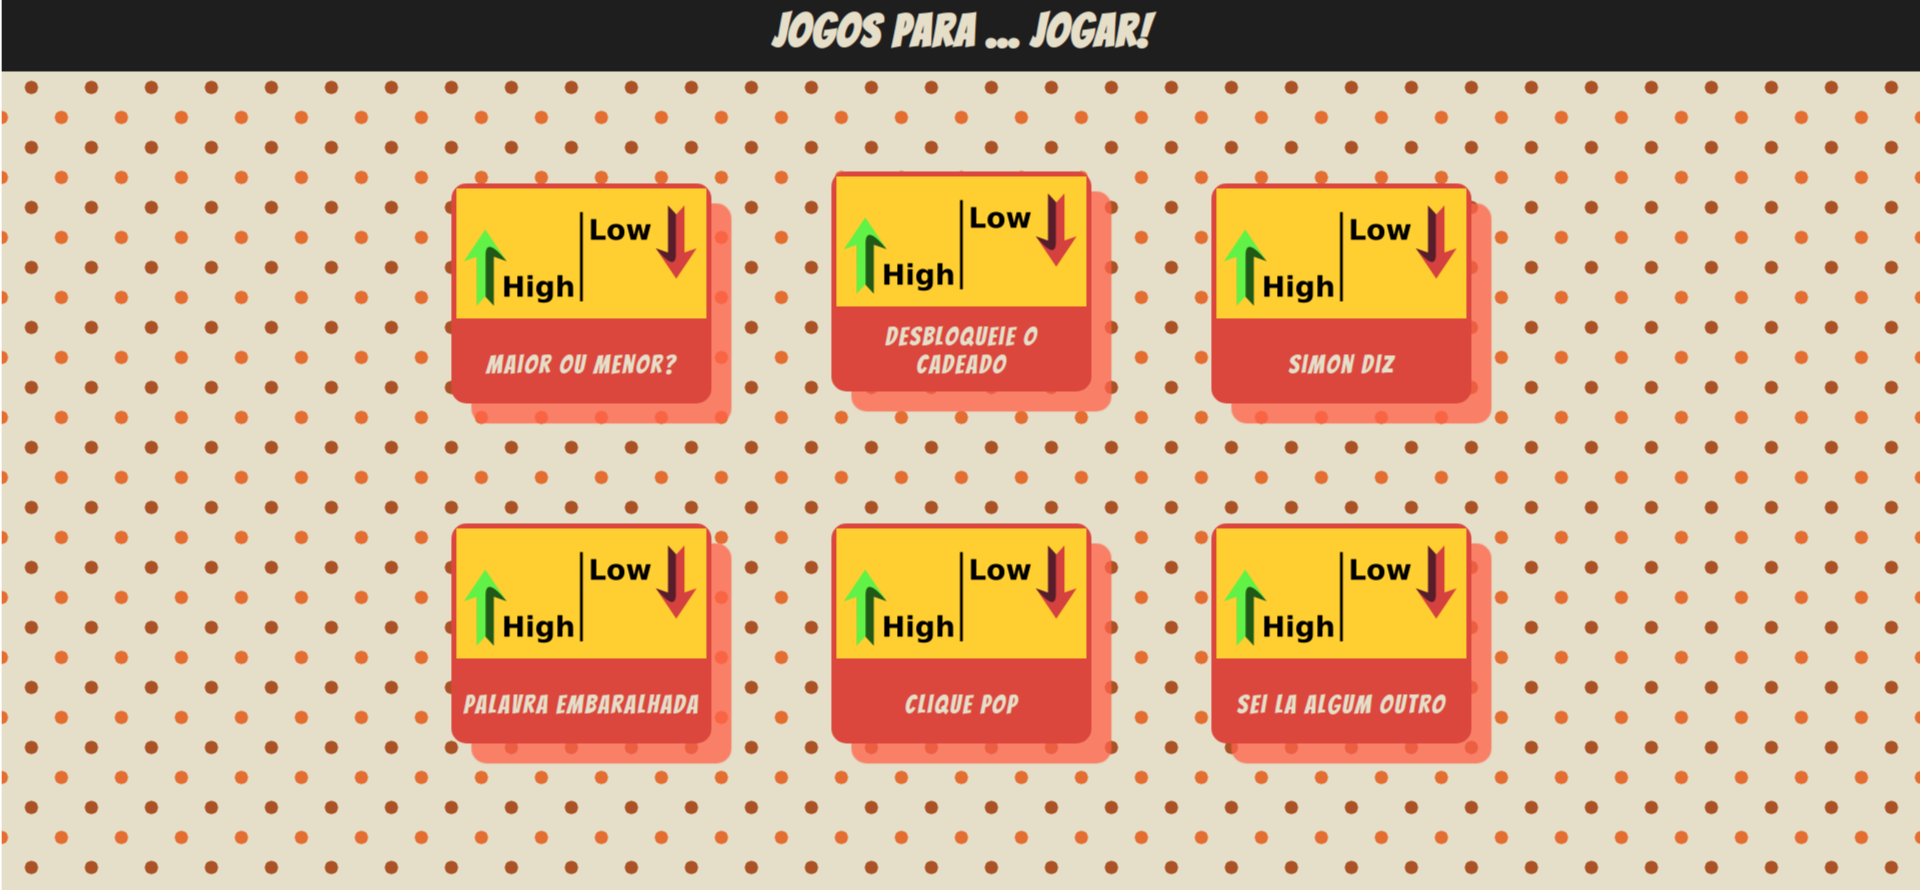
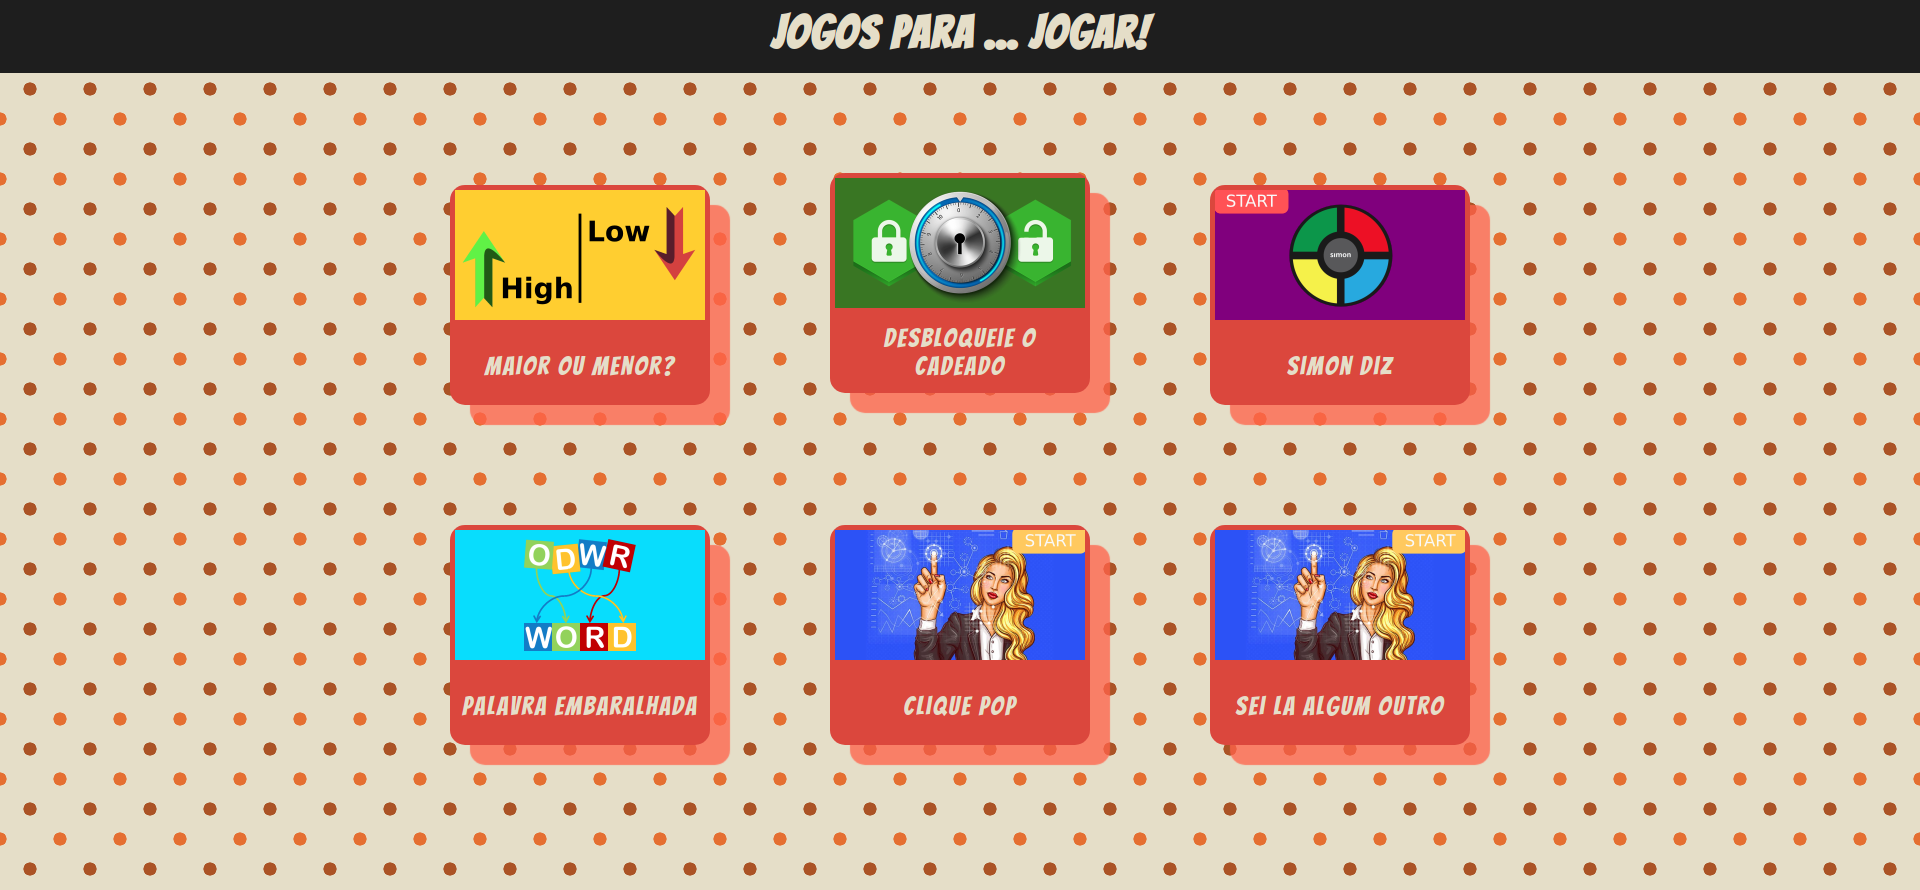
some touches on the images showing up in the fist page

diff --git a/index.html b/index.html
@@ -138,7 +138,7 @@
                 img.style.width = 'auto';
                 img.style.height = '130px';
                 img.style.borderRadius = '15px 15px 0 0 '
-                image.src = './img/hilo.png'
+                image.src = `./img/img-${i}.png`
 
                 title.style.width = 'auto';
                 title.style.padding = '32px 0';
